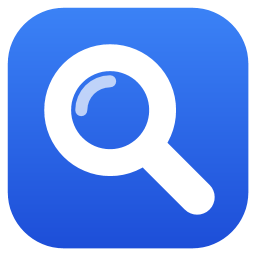
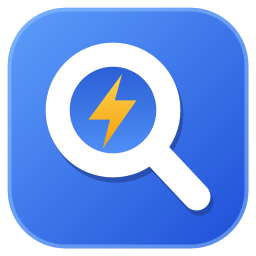
Icono: diseno 'Variante C - Tile con rayo' de Claude Design
Tile azul con degradado y borde claro, lupa blanca con sombra, cristal azul con rayo ambar; a 24 px o menos queda solo la lupa

diff --git a/tools/make-icon.cs b/tools/make-icon.cs
@@ -26,44 +26,72 @@ WriteIco(output, images);
 File.WriteAllBytes(Path.ChangeExtension(output, ".png"), images[^1].Png);
 Console.WriteLine($"{output}: {string.Join(", ", sizes)} px");
 
+// Diseno "Variante C - Tile con rayo" (Claude Design): cuadrado azul, lupa blanca con sombra y un rayo
+// ambar dentro del cristal. A 24 px o menos queda solo la lupa sobre el tile, para que se lea.
 static byte[] Render(int size)
 {
     double s = size;
+    double m = s * 0.03;
+    double t = s - 2 * m;
+    Point P(double u, double v) => new(m + u * t, m + v * t);  // coordenadas relativas al tile (0..1)
+    double L(double u) => u * t;
+    bool detailed = size >= 32;
+
     var visual = new DrawingVisual();
     using (var dc = visual.RenderOpen())
     {
-        // Fondo: cuadrado redondeado azul con degradado vertical
-        var background = new LinearGradientBrush(Color.FromRgb(0x3B, 0x82, 0xF6), Color.FromRgb(0x1D, 0x4E, 0xD8), 90);
-        double margin = s * 0.03;
-        double radius = s * 0.22;
-        dc.DrawRoundedRectangle(background, null, new Rect(margin, margin, s - 2 * margin, s - 2 * margin), radius, radius);
-
-        // Lupa blanca: aro y mango a 45 grados
-        double stroke = Math.Max(1.6, s * 0.105);
-        var ring = new Pen(Brushes.White, stroke);
-        var center = new Point(s * 0.43, s * 0.43);
-        double r = s * 0.205;
-        dc.DrawEllipse(null, ring, center, r, r);
-
-        var handle = new Pen(Brushes.White, stroke * 1.3) { StartLineCap = PenLineCap.Round, EndLineCap = PenLineCap.Round };
-        double offset = (r + stroke * 0.45) * Math.Sqrt(0.5);
-        dc.DrawLine(handle, new Point(center.X + offset, center.Y + offset), new Point(s * 0.77, s * 0.77));
-
-        // Brillo en el cristal (solo donde hay pixeles suficientes para que se vea)
-        if (size >= 32)
+        // Tile: degradado diagonal de azul claro a azul profundo, con un borde claro sutil
+        var tile = new Rect(m, m, t, t);
+        double radius = L(0.24);
+        var tileBrush = new LinearGradientBrush(Color.FromRgb(0x5E, 0x9E, 0xFB), Color.FromRgb(0x1D, 0x4E, 0xD8), new Point(0, 0), new Point(1, 1));
+        dc.DrawRoundedRectangle(tileBrush, null, tile, radius, radius);
+        if (detailed)
         {
-            var glint = new Pen(new SolidColorBrush(Color.FromArgb(0xB0, 0xFF, 0xFF, 0xFF)), stroke * 0.45)
-            {
-                StartLineCap = PenLineCap.Round,
-                EndLineCap = PenLineCap.Round,
-            };
-            double gr = r * 0.55;
-            var arc = new PathGeometry([new PathFigure(
-                new Point(center.X - gr, center.Y),
-                [new ArcSegment(new Point(center.X, center.Y - gr), new Size(gr, gr), 0, false, SweepDirection.Clockwise, true)],
-                false)]);
-            dc.DrawGeometry(null, glint, arc);
+            double inset = L(0.008);
+            var rim = new Pen(new SolidColorBrush(Color.FromArgb(0x80, 0x93, 0xC5, 0xFD)), L(0.016));
+            dc.DrawRoundedRectangle(null, rim, Rect.Inflate(tile, -inset, -inset), radius - inset, radius - inset);
         }
+
+        // Geometria de la lupa: aro (radio medio y grosor) y mango a 45 grados
+        var center = P(0.4375, 0.425);
+        double ringRadius = L(0.23);
+        double ringWidth = Math.Max(1.6, L(0.10));
+        double handleWidth = Math.Max(2.0, L(0.115));
+        double startOffset = ringRadius * Math.Sqrt(0.5);
+        var handleStart = new Point(center.X + startOffset, center.Y + startOffset);
+        var handleEnd = P(0.785, 0.785);
+
+        Pen RingPen(Brush b) => new(b, ringWidth);
+        // Extremo plano del lado del aro: uno redondeado invadiria el cristal
+        Pen HandlePen(Brush b) => new(b, handleWidth) { StartLineCap = PenLineCap.Flat, EndLineCap = PenLineCap.Round };
+
+        if (detailed)
+        {
+            // Sombra azul oscura desplazada hacia abajo a la derecha
+            var shadow = new SolidColorBrush(Color.FromArgb(0x90, 0x1E, 0x3A, 0x8A));
+            dc.PushTransform(new TranslateTransform(L(0.012), L(0.022)));
+            dc.DrawEllipse(null, RingPen(shadow), center, ringRadius, ringRadius);
+            dc.DrawLine(HandlePen(shadow), handleStart, handleEnd);
+            dc.Pop();
+
+            // Cristal: azul con la parte de arriba mas oscura (sombra del aro)
+            double lens = ringRadius - ringWidth / 2;
+            var lensBrush = new LinearGradientBrush(Color.FromRgb(0x2B, 0x5F, 0xD6), Color.FromRgb(0x4F, 0x8F, 0xF6), 90);
+            dc.DrawEllipse(lensBrush, null, center, lens, lens);
+
+            // Rayo ambar
+            var bolt = new StreamGeometry();
+            using (var g = bolt.Open())
+            {
+                g.BeginFigure(P(0.475, 0.275), true, true);
+                g.PolyLineTo([P(0.335, 0.465), P(0.425, 0.465), P(0.395, 0.585), P(0.535, 0.385), P(0.445, 0.385)], true, true);
+            }
+            var boltBrush = new LinearGradientBrush(Color.FromRgb(0xFC, 0xD3, 0x4D), Color.FromRgb(0xF5, 0x9E, 0x0B), 90);
+            dc.DrawGeometry(boltBrush, null, bolt);
+        }
+
+        dc.DrawEllipse(null, RingPen(Brushes.White), center, ringRadius, ringRadius);
+        dc.DrawLine(HandlePen(Brushes.White), handleStart, handleEnd);
     }
 
     var bitmap = new RenderTargetBitmap(size, size, 96, 96, PixelFormats.Pbgra32);
